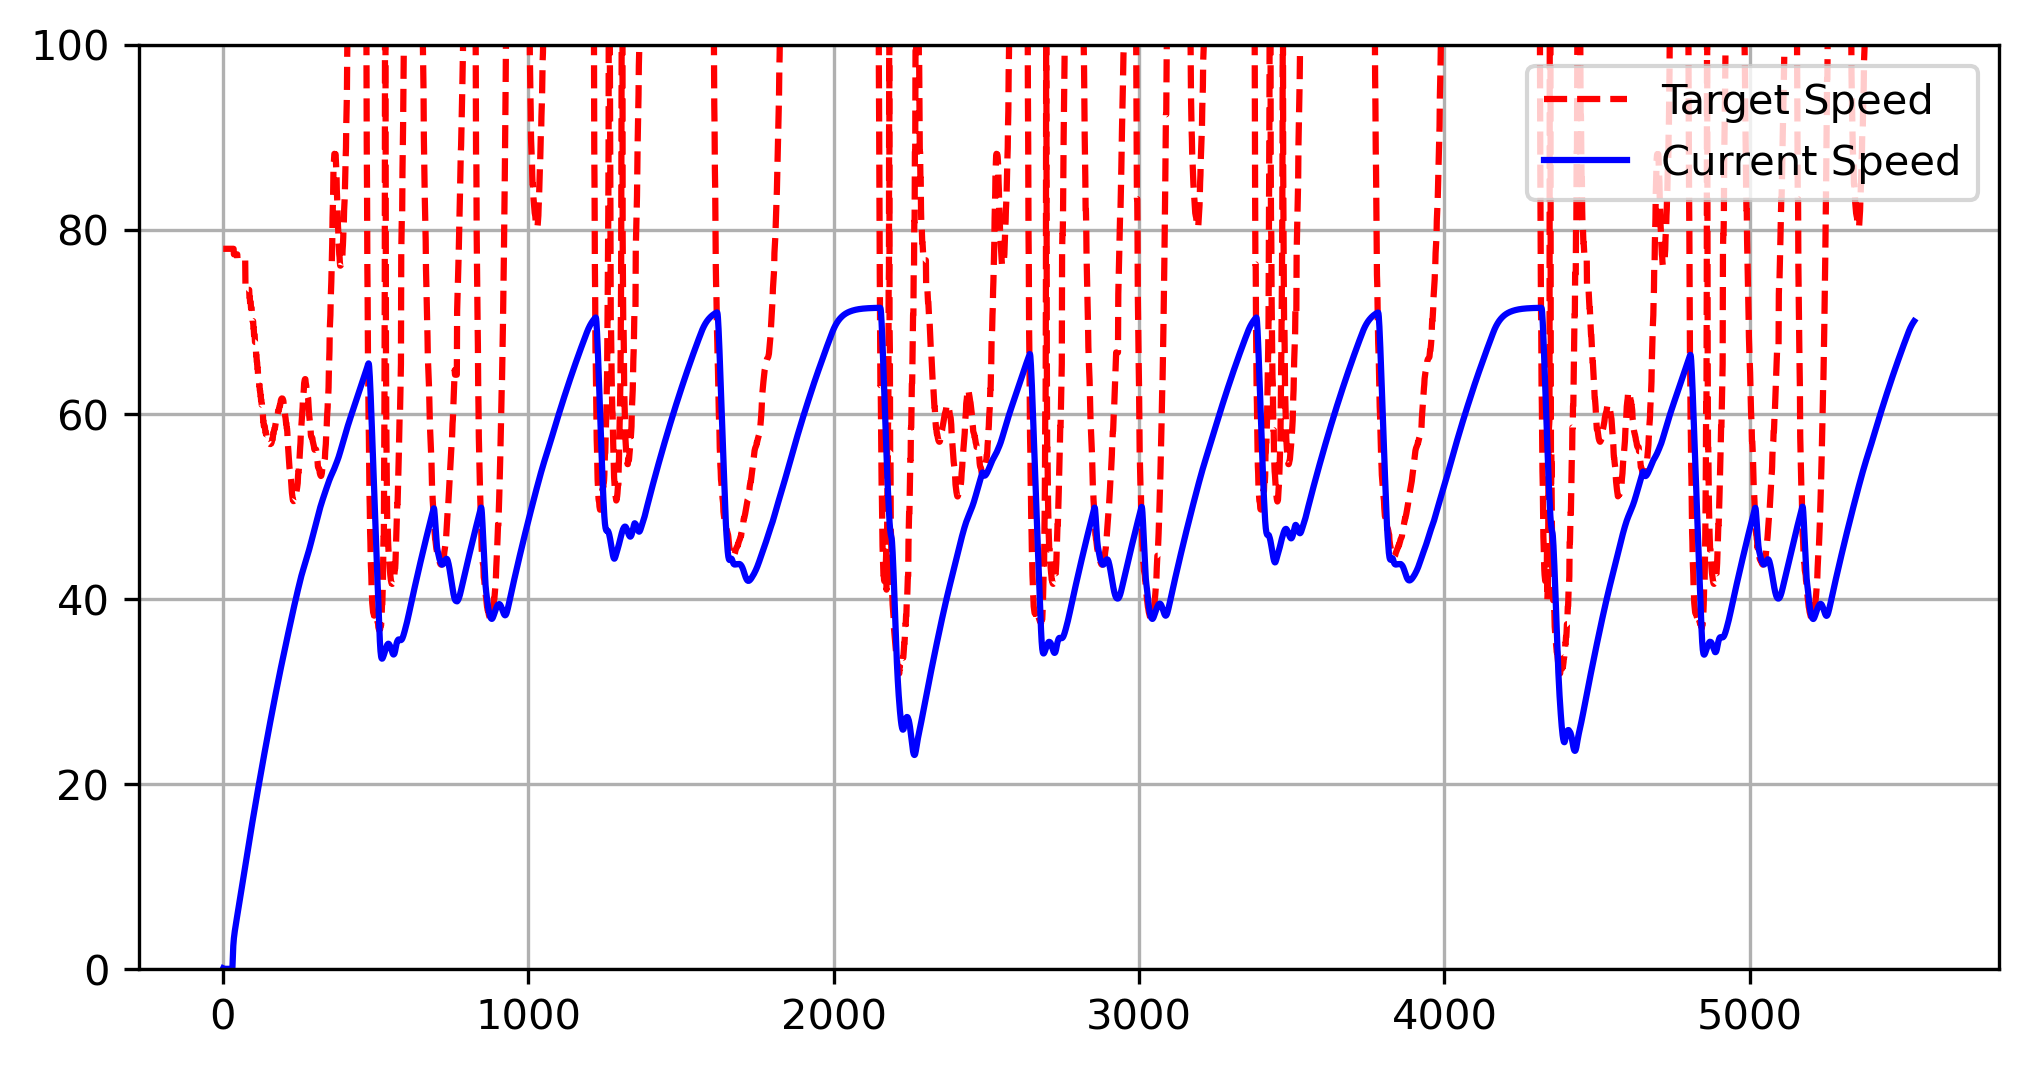
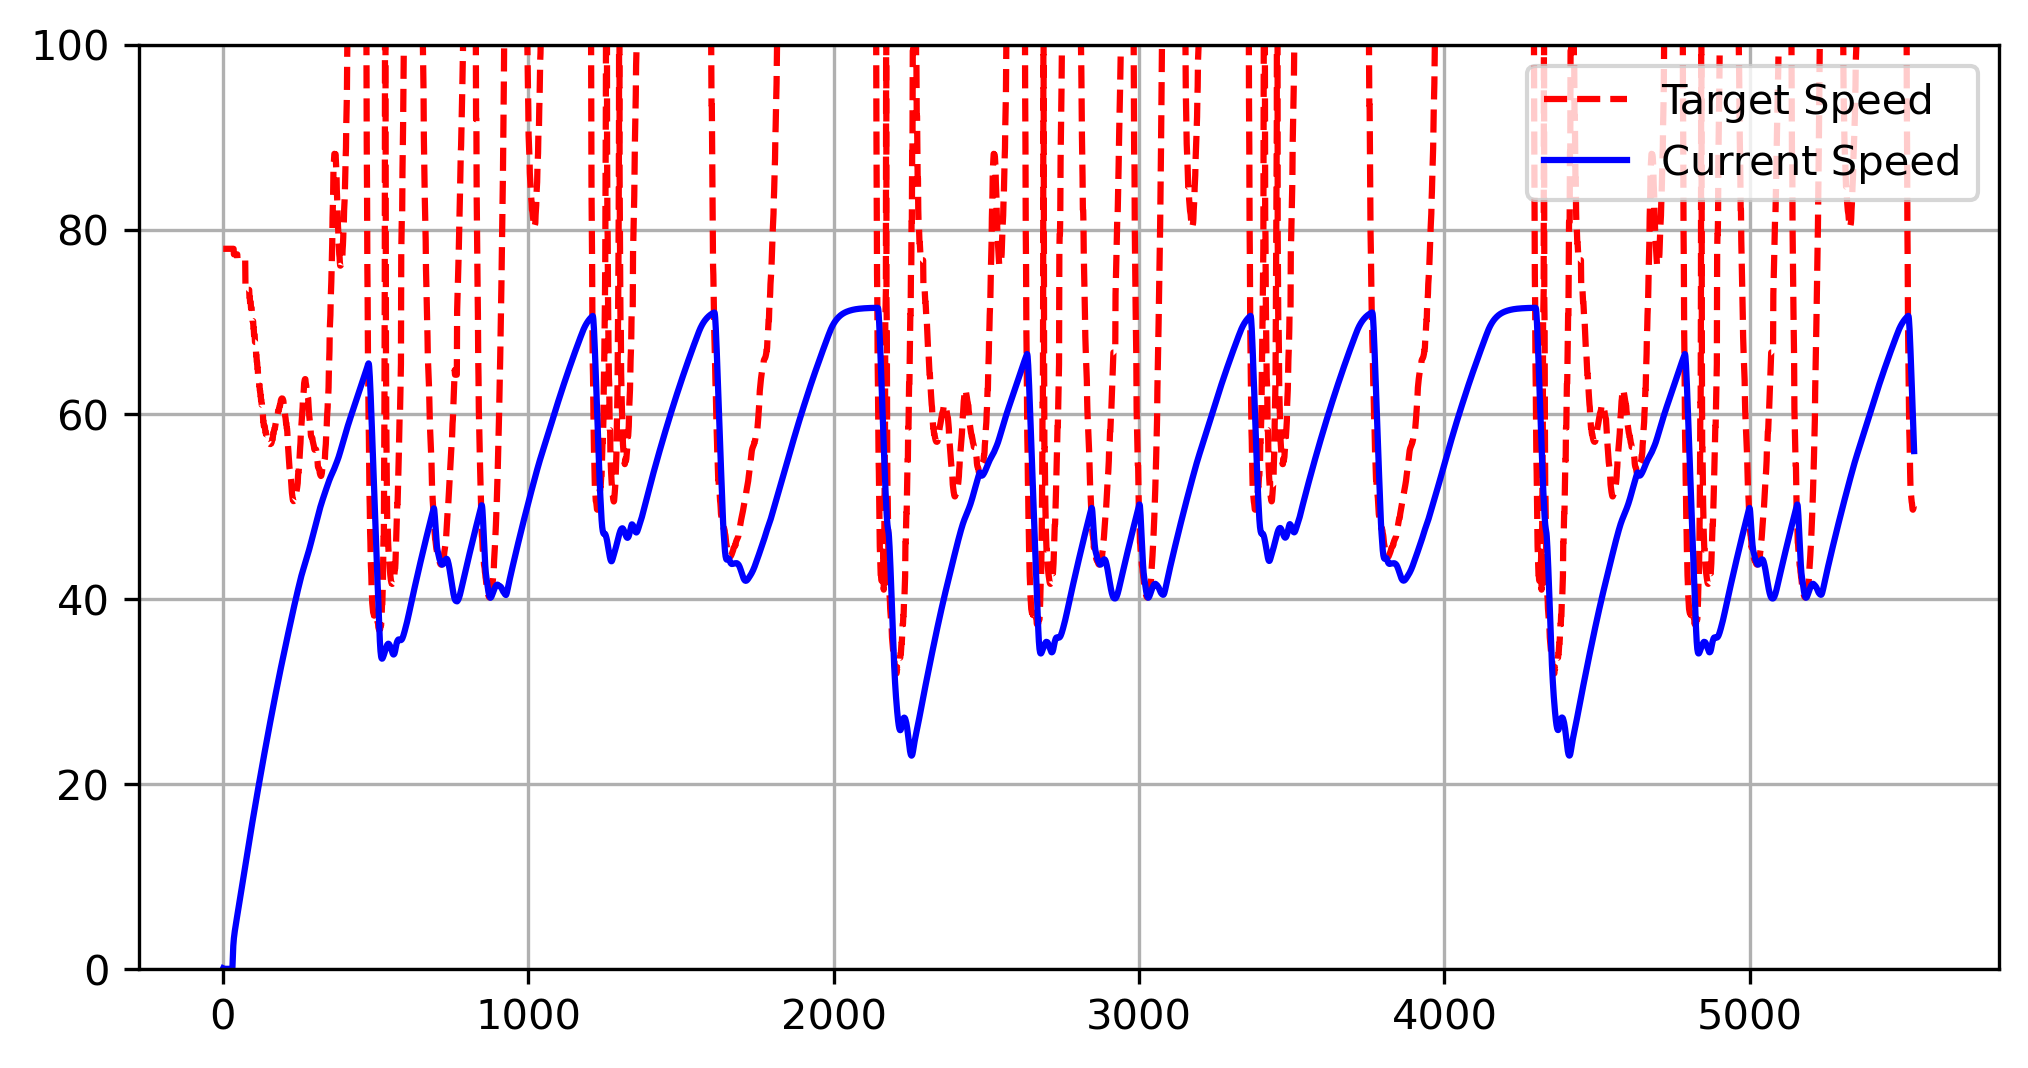
329.15

Changed region(s): [[0.2175, 0.0309, 0.963, 0.7107]]

diff --git a/competition_code/util/Tuner.py b/competition_code/util/Tuner.py
@@ -5,7 +5,7 @@ class Tuner:
     @staticmethod
     def tune_target_speed(target_speed, waypoint):
         if (745 <= waypoint <= 870): return target_speed * 40/35
-        if (waypoint <= 510 or 745 <= waypoint <= 870 or waypoint >= 2550): return target_speed * 38/35
+        if (waypoint <= 510 or waypoint >= 2550): return target_speed * 38/35
         return target_speed * 44/35
 
     @staticmethod
@@ -13,16 +13,14 @@ class Tuner:
         if (target_speed < 35): return 1.2
         return 1.3
 
-    def tune_steer(steer, wp):
-        if (840 <= wp <= 870): 
-            if steer < 0:
-                return 0
-            return steer
-        else: return steer
+    @staticmethod
+    def tune_steer(steer, waypoint):
+        if (840 <= waypoint <= 860): return max(steer * 2.0, 0)
+        return steer
 
     @staticmethod
     def tune_steer_lookahead(lookahead, waypoint):
-        # if (838 <= waypoint <= 870): return 5
+        if (745 <= waypoint < 838): return lookahead + 4
         if (1300 <= waypoint <= 1325 or 1400 <= waypoint <= 1425): return lookahead + 7
         elif (450 <= waypoint < 490 or 2550 <= waypoint <= 2600): return lookahead + 2
         return lookahead  

diff --git a/competition_code/submission.py b/competition_code/submission.py
@@ -71,12 +71,12 @@ class RoarCompetitionSolution:
         vehicle_velocity = self.velocity_sensor.get_last_gym_observation()
         vehicle_velocity_norm = np.linalg.norm(vehicle_velocity)
 
-        
         self.current_waypoint_idx = filter_waypoints(
             vehicle_location,
             self.current_waypoint_idx,
             self.maneuverable_waypoints
         ) 
+
         target_speed = SpeedMap.get_target_speed(vehicle_velocity_norm, self)
         target_speed = Tuner.tune_target_speed(target_speed, self.current_waypoint_idx)
 
@@ -93,8 +93,8 @@ class RoarCompetitionSolution:
 
         self.steer_controller.set_setpoint(target_steer)
         steer_control = self.steer_controller.calculate(current_steer)
-        steer_normalized = np.clip(-steer_control, -1.0, 1.0)
-        #steer_normalized = Tuner.tune_steer(steer_normalized, self.current_waypoint_idx)
+        steer_control = Tuner.tune_steer(-steer_control, self.current_waypoint_idx)
+        steer_normalized = np.clip(steer_control, -1.0, 1.0)
 
         self.speeds_plot.generate(target_speed, vehicle_velocity_norm)
         self.steers_plot.generate(target_steer, current_steer)
